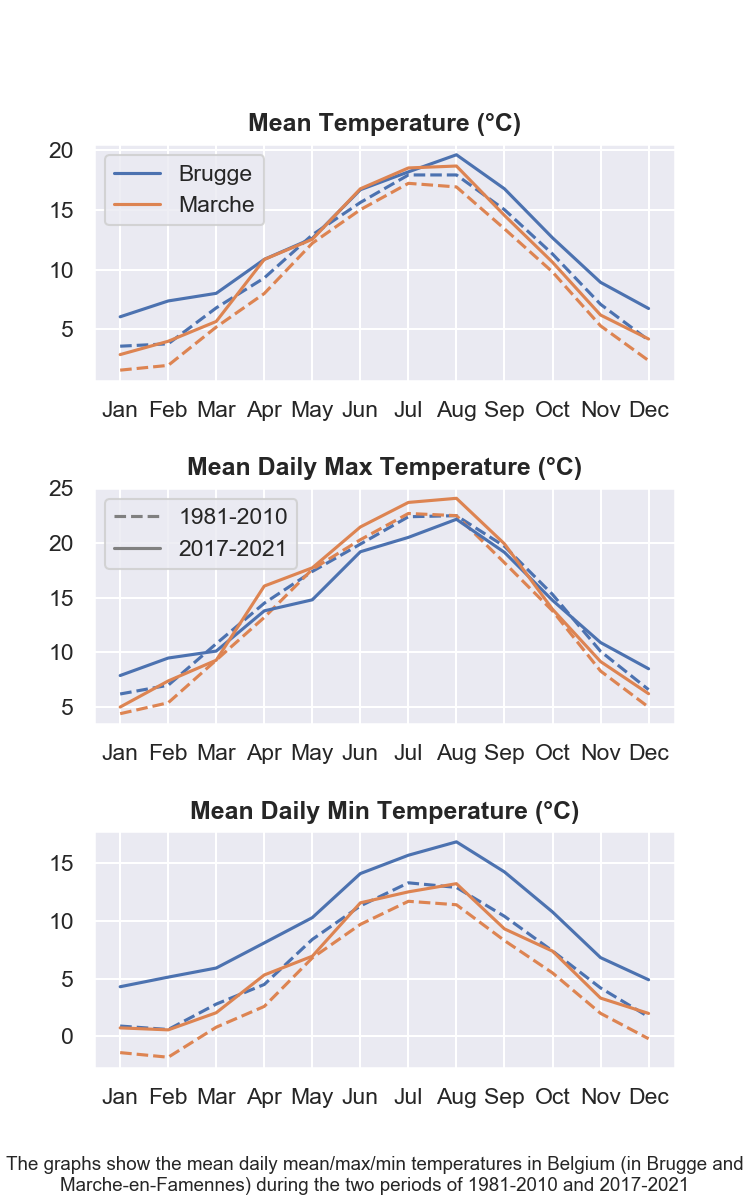
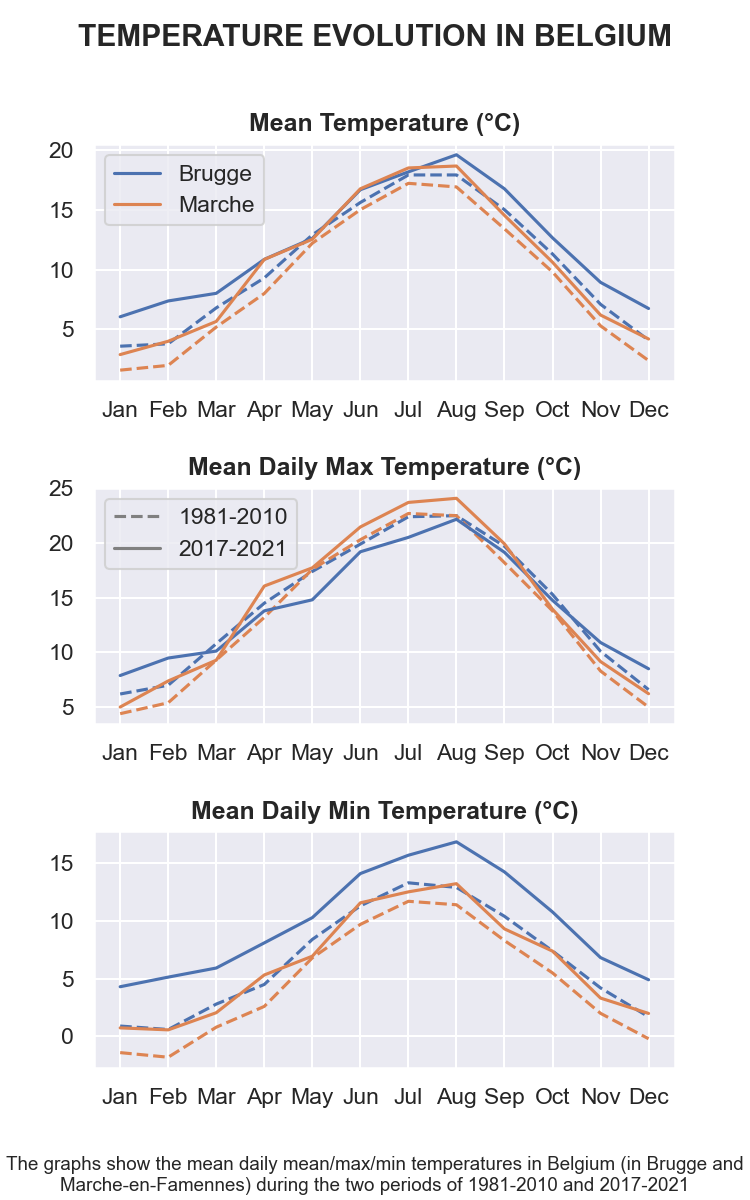
add python file

diff --git a/temp_history_belgium.py b/temp_history_belgium.py
@@ -1,0 +1,66 @@
+import pandas as pd
+import matplotlib.pyplot as plt
+from datetime import datetime
+import numpy as np
+import seaborn as sns
+sns.set()
+months = ["Jan", "Feb", "Mar", "Apr", "May", "Jun", "Jul", "Aug", "Sep", "Oct", "Nov", "Dec"]
+
+# load data from 1981-2010
+df_brugge_old = pd.read_csv("data/brugge_1981_2010.csv", usecols=range(2,14))
+df_brugge_old.index = ["mean temp", "max temp", "min temp"]
+df_brugge_old.columns = months
+
+df_marche_old = pd.read_csv("data/marche-famennes_1981_2010.csv", usecols=range(2,14))
+df_marche_old.index = ["mean temp", "max temp", "min temp"]
+df_marche_old.columns = months
+
+# load data from 2017-2021
+df_recent = pd.read_csv("data/belgian_climate_2017_2021.csv")
+df_recent["timestamp"] = pd.to_datetime(df_recent["timestamp"])
+df_recent = df_recent.iloc[:, [1, 2, 4, 5, 6]]
+df_recent.columns = ["code", "timestamp", "mean temp", "max temp", "min temp"]
+df_recent["year"] = df_recent["timestamp"].dt.year
+df_recent["month"] = df_recent["timestamp"].dt.month
+df_recent["day"] = df_recent["timestamp"].dt.day
+# column code shows at which station (Brugge or Marche-en-Famennes) the measurements were made
+df_brugge_recent = df_recent[df_recent['code'] == 6418]
+df_marche_recent = df_recent[df_recent['code'] == 6472]
+
+# group measurements by month and calculate mean values (and number of measurements in column "code")
+df_brugge_recent = df_brugge_recent.groupby("month").agg({"code": len, "mean temp": np.nanmean,
+                                                          "max temp": np.nanmean, "min temp": np.nanmean})
+df_marche_recent = df_marche_recent.groupby("month").agg({"code": len, "mean temp": np.nanmean,
+                                                          "max temp": np.nanmean, "min temp": np.nanmean})
+# drawing of figure
+col1 = "C0"
+col2 = "C1"
+plt.figure(figsize=(5, 8))
+plt.subplot(311)
+plt.plot(months, df_brugge_old.loc["mean temp"], color=col1, linestyle="--")
+plt.plot(months, df_marche_old.loc["mean temp"], color=col2, linestyle="--")
+plt.plot(months, df_brugge_recent["mean temp"], color=col1, label="Brugge")
+plt.plot(months, df_marche_recent["mean temp"], color=col2, label="Marche")
+plt.title("Mean Temperature (°C)", fontweight="bold")
+plt.legend(loc="best")
+plt.subplot(312)
+plt.plot(months, df_brugge_old.loc["max temp"], color=col1, linestyle="--")
+plt.plot(months, df_marche_old.loc["max temp"], color=col2, linestyle="--")
+plt.plot(months, df_brugge_recent["max temp"], color=col1)
+plt.plot(months, df_marche_recent["max temp"], color=col2)
+plt.plot([], [], color="grey", linestyle="--", label="1981-2010")
+plt.plot([], [], color="grey", label="2017-2021")
+plt.title("Mean Daily Max Temperature (°C)", fontweight="bold")
+plt.legend(loc="best")
+plt.subplot(313)
+plt.plot(months, df_brugge_old.loc["min temp"], color=col1, linestyle="--")
+plt.plot(months, df_marche_old.loc["min temp"], color=col2, linestyle="--")
+plt.plot(months, df_brugge_recent["min temp"], color=col1)
+plt.plot(months, df_marche_recent["min temp"], color=col2)
+plt.title("Mean Daily Min Temperature (°C)", fontweight="bold")
+plt.subplots_adjust(hspace=0.45)
+txt = ("The graphs show the mean daily mean/max/min temperatures in Belgium (in Brugge and Marche-en-Famennes)"
+       " during the two periods of 1981-2010 and 2017-2021")
+plt.figtext(0.5, 0.01, txt, wrap=True, horizontalalignment='center', fontsize=9)
+plt.suptitle("Temperature evolution in Belgium".upper(), fontweight="bold")
+plt.savefig("TempHistoryBelgium.png", dpi=150)
